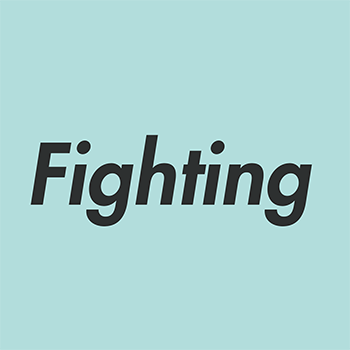
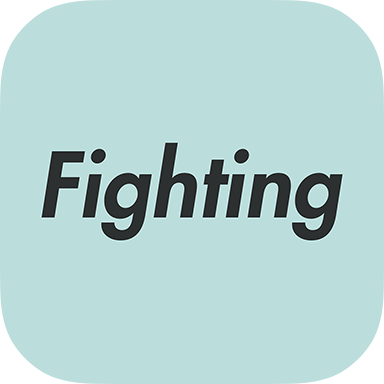
uo

diff --git a/index.html b/index.html
@@ -10,7 +10,7 @@
 <body>
 
 <div class="container">
-	<h1><img src="CydiaIcon.png">AohuiLiu's repo</h1>
+	<h1><img src="repo icon.png">AohuiLiu's repo</h1>
 </div>
 
 <div class="container">
